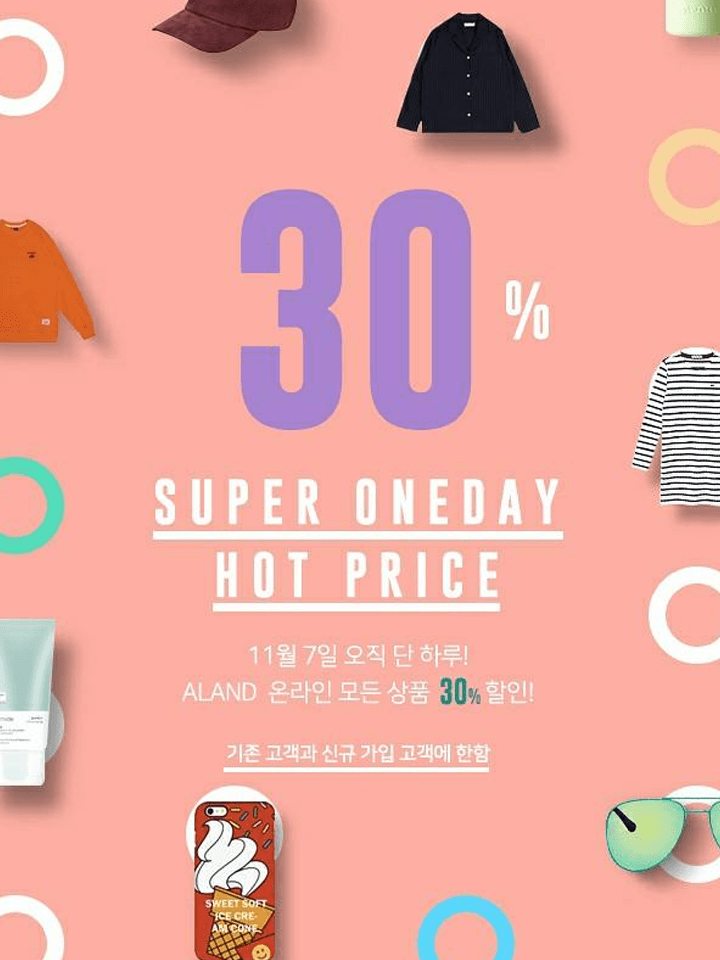
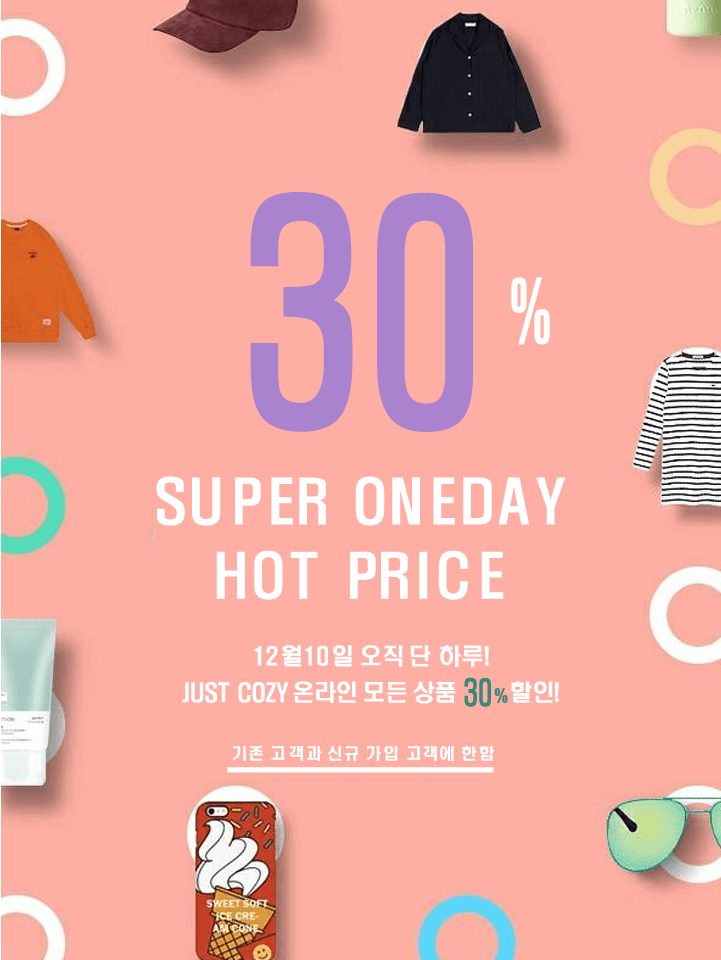
main design 및 cart 작업

diff --git a/MultiShop/src/main/webapp/main/openeventPopup.html b/MultiShop/src/main/webapp/main/openeventPopup.html
@@ -8,7 +8,7 @@
 <form name="form" method="post" action="">   
 <table width="" border="0" cellpadding="0" cellspacing="0">
   <tbody><tr>
-    <td><img src="../image/openEvent.jpg" width="100%" border="0"></td>
+    <td><img src="../image/openEvent.png" width="100%" border="0"></td>
   </tr>
   <tr>
     <td height="30" align="right" bgcolor="#000000">
